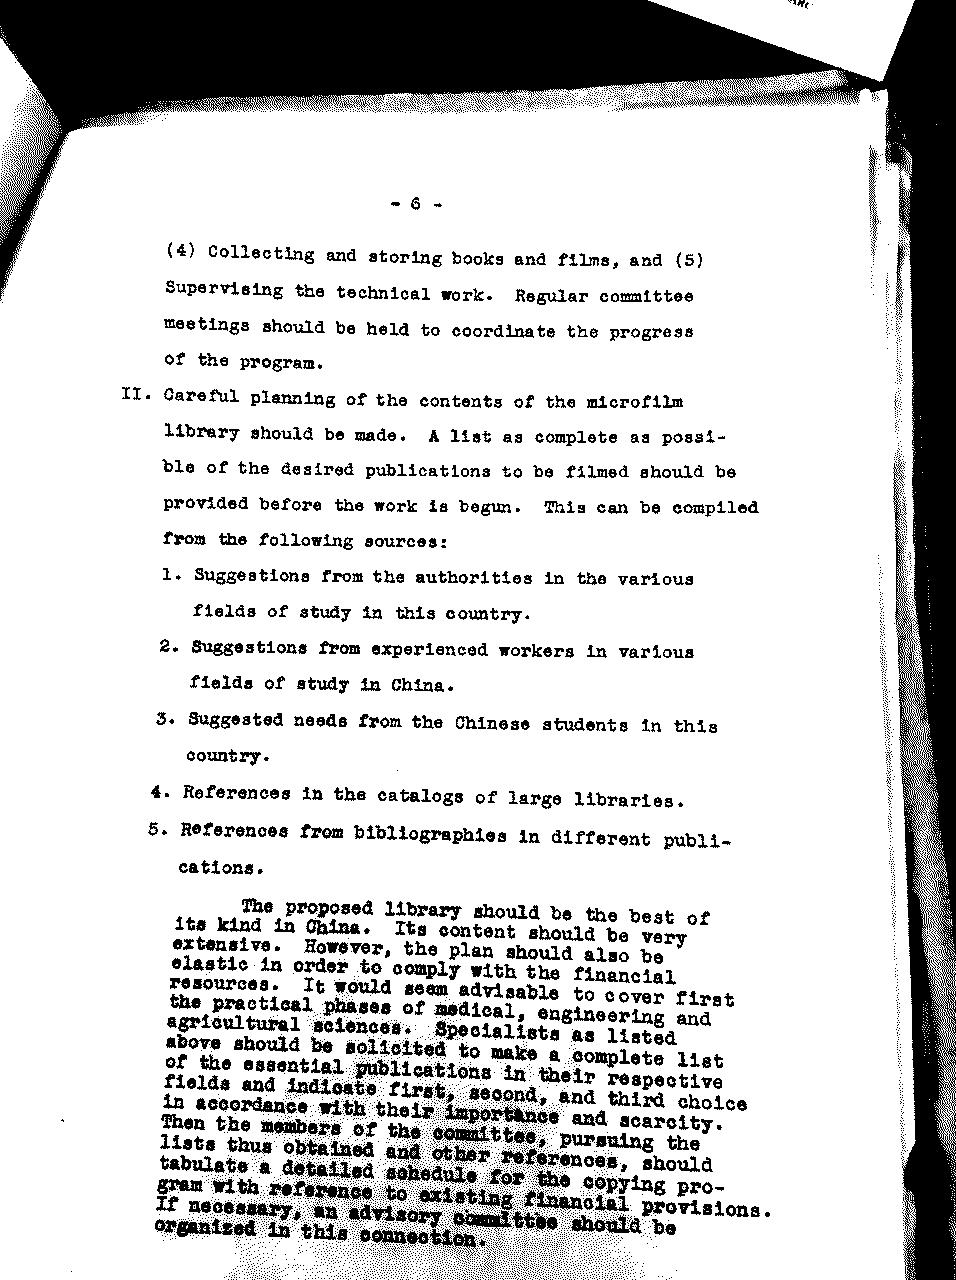
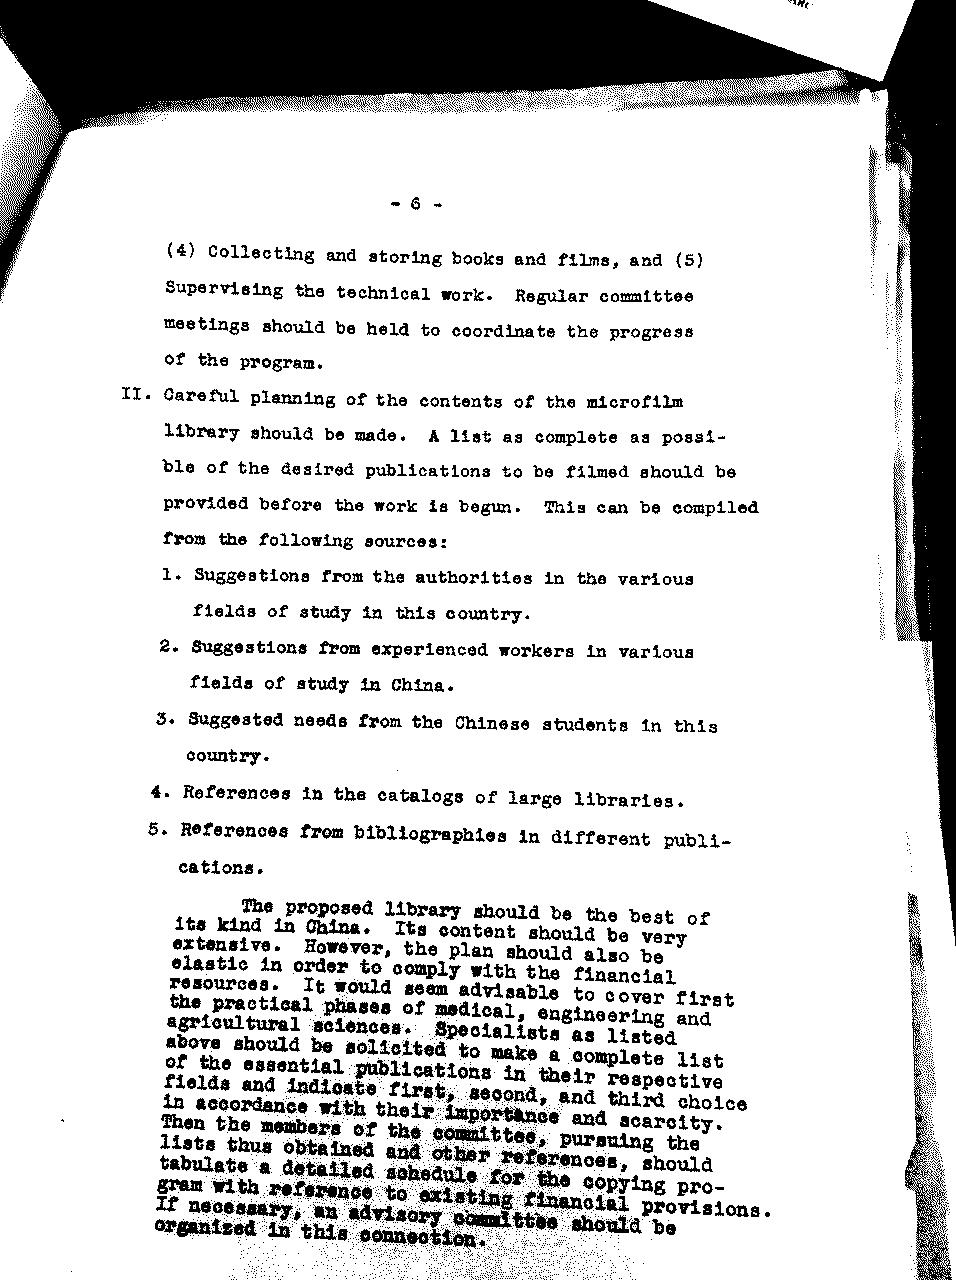
图片转扫描办

Changed region(s): [[0.9404, 0.5, 1.0, 1.0], [0.455, 0.9688, 0.637, 1.0], [0.3944, 0.9688, 0.4247, 1.0]]

diff --git a/批量图片转扫描图片/code/getWBImg.py b/批量图片转扫描图片/code/getWBImg.py
@@ -19,18 +19,28 @@ from PIL import Image
 import os
 import os.path
 
-for parent, dirnames, filenames in os.walk("../data/"):
+for parent, dirnames, filenames in os.walk("../data"):
     for filename in filenames:
         im = Image.open("../data/" + filename)
         im = im.convert("P")
+
+        if (im.size[0] > im.size[1]):
+            im = im.transpose(Image.ROTATE_270)
         im2 = Image.new("P",im.size,255)
-
-
+        print(im.size[1])
+        l = im.size[1] / 2;
+        w = im.size[0] / 2;
         for x in range(im.size[1]):
             for y in range(im.size[0]):
                 pix = im.getpixel((y,x))
-                if abs(pix)<116:
-                    im2.putpixel((y,x),0)
+                # if abs(pix)<105:
+                #     im2.putpixel((y,x),0)
+                if x > l:
+                    if abs(pix)<120+(40/((2*w)**2))*y*(w*2-y):
+                        im2.putpixel((y,x),0)
+                else:
+                    if abs(pix)<125:
+                        im2.putpixel((y,x),0)
 
         im2.convert('RGB').save('../ans/'+filename)
         im.close()
